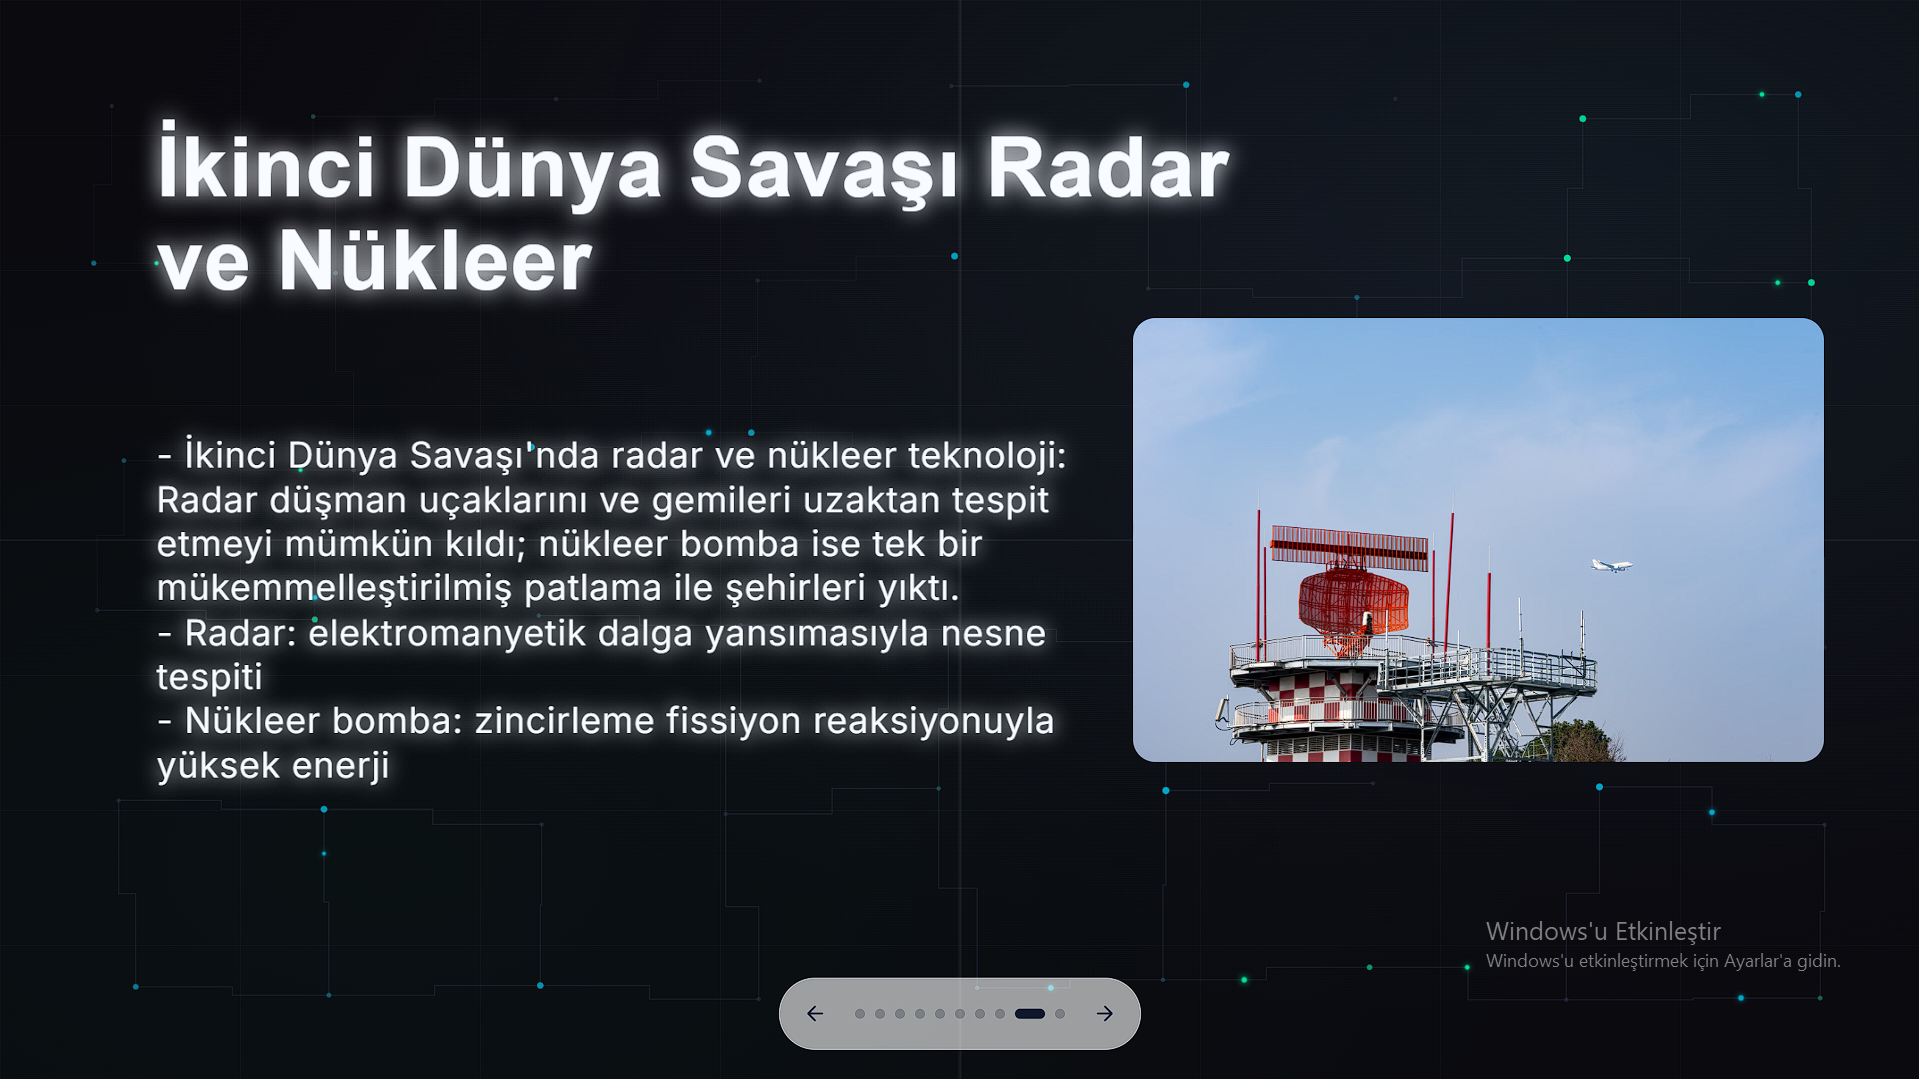
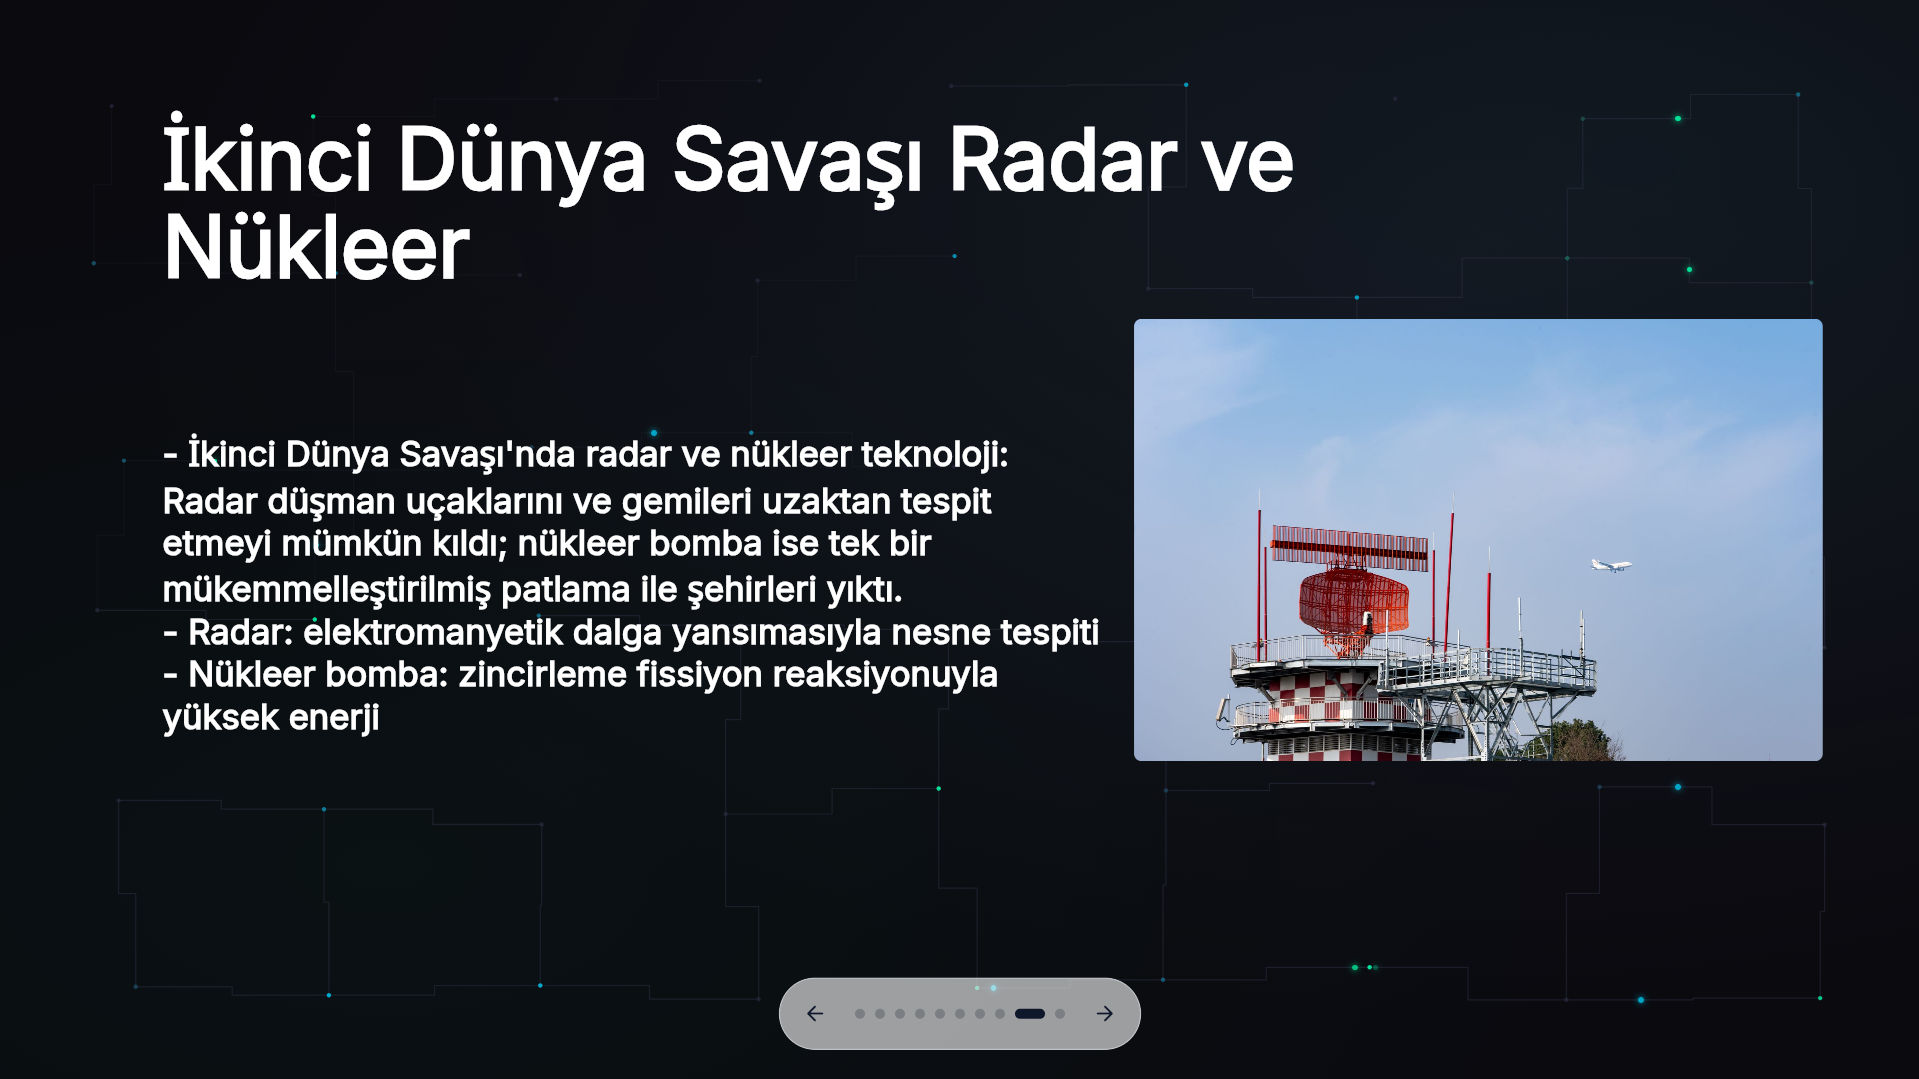
readme....

diff --git a/README.md b/README.md
@@ -22,9 +22,12 @@ Bu depoya bağlı bir kamuya açık demo bağlantısı henüz eklenmemiştir. Uy
   <img src="assets/readme/preview-desktop.png" alt="Sutol editor desktop preview" width="1200" />
 </p>
 
-<p align="center">
-  <img src="assets/readme/preview-mobile.png" alt="Sutol editor mobile preview" width="520" />
-</p>
+<table>
+  <tr>
+    <td><img src="assets/readme/preview-presentation.png" alt="Sutol presentation preview" width="100%" /></td>
+    <td><img src="assets/readme/preview-mobile.png" alt="Sutol mobile preview" width="100%" /></td>
+  </tr>
+</table>
 
 ## İçindekiler
 

diff --git a/README.en.md b/README.en.md
@@ -22,9 +22,12 @@ No public demo is linked to this repository yet. You can run the app locally usi
   <img src="assets/readme/preview-desktop.png" alt="Sutol editor desktop preview" width="1200" />
 </p>
 
-<p align="center">
-  <img src="assets/readme/preview-mobile.png" alt="Sutol editor mobile preview" width="520" />
-</p>
+<table>
+  <tr>
+    <td><img src="assets/readme/preview-presentation.png" alt="Sutol presentation preview" width="100%" /></td>
+    <td><img src="assets/readme/preview-mobile.png" alt="Sutol mobile preview" width="100%" /></td>
+  </tr>
+</table>
 
 ## Contents
 
